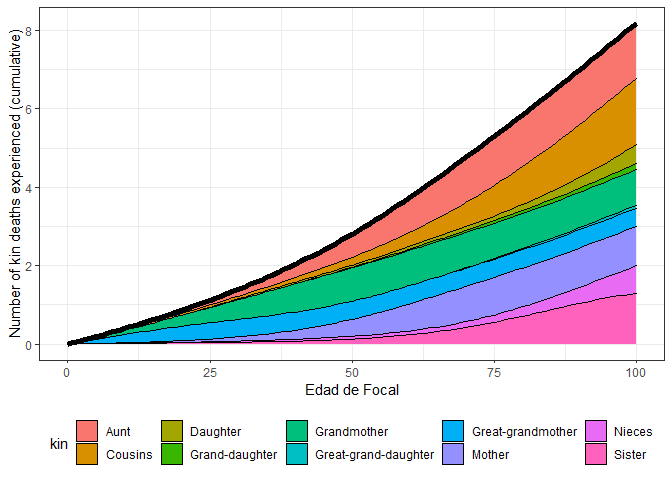
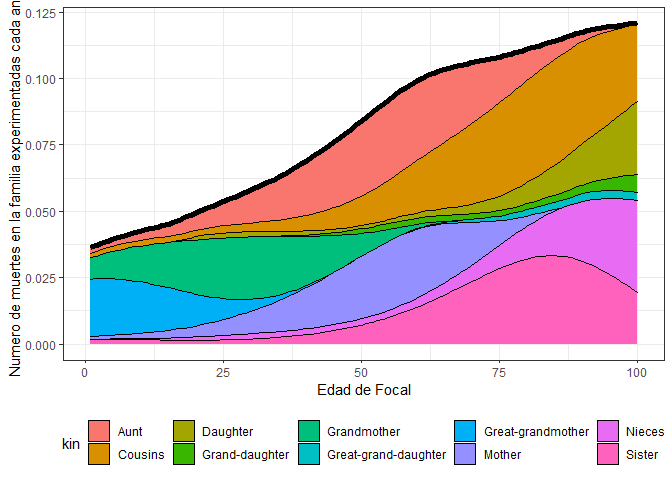
small update

diff --git a/README.md b/README.md
@@ -128,6 +128,61 @@ get_UNWPP_inputs <- function(countries, my_startyr, my_endyr, variant = "Median"
 }
 ```
 
+Otras funciones utiles que usaremos ma adelante:
+
+``` r
+# A function to apply GKP factors to a female-only population to approximate kin counts for a two-sex population by multiplying daughters by 2, granddaughters by 4, etc. 
+approx_two_sex <- function(df){
+  print("Note: approx_two_sex only keeps columns with data on kin counts!")
+      factors <- c("coa" = 8, "cya" = 8, "d" = 2, "gd" = 4, "ggd" = 8, "ggm" = 8, "gm" = 4, "m" = 2, "nos" = 4, "nys" = 4, "oa" = 4, "ya" = 4, "os" = 2, "ys" = 2)
+
+df <- as.data.frame(df)
+factors_vec <- factors[df$kin]
+df$count_living <- df$count_living*factors_vec
+df$count_dead <- df$count_dead*factors_vec
+drop <- c("mean_age", "sd_age", "count_cum_dead", "mean_age_lost")
+df[,!(names(df) %in% drop)]
+}
+
+# A small hack on the existing rename_kin function to make sure it keeps all columns
+rename_kin2 <- function (df, consolidate_column = "no") {
+  stopifnot(`Argument 'consolidate_column' should be 'no' or a valid column name` = consolidate_column %in% 
+    c("no", colnames(df)))
+  if (consolidate_column == "no") {
+    relatives <- c("Cousins from older aunt", "Cousins from younger aunt", 
+      "Daughter", "Grand-daughter", "Great-grand-daughter", 
+      "Great-grandmother", "Grandmother", "Mother", "Nieces from older sister", 
+      "Nieces from younger sister", "Aunt older than mother", 
+      "Aunt younger than mother", "Older sister", "Younger sister")
+    names(relatives) <- c("coa", "cya", "d", "gd", "ggd", 
+      "ggm", "gm", "m", "nos", "nys", "oa", "ya", "os", 
+      "ys")
+  }
+  else {
+    consolidate_vec <- c("c", "c", "d", "gd", "ggd", "ggm", 
+      "gm", "m", "n", "n", "a", "a", "s", "s")
+    names(consolidate_vec) <- c("coa", "cya", "d", "gd", 
+      "ggd", "ggm", "gm", "m", "nos", "nys", "oa", "ya", 
+      "os", "ys")
+    relatives <- c("Cousins", "Daughter", "Grand-daughter", 
+      "Great-grand-daughter", "Great-grandmother", "Grandmother", 
+      "Mother", "Nieces", "Aunt", "Sister")
+    names(relatives) <- unique(consolidate_vec)
+    df <- as.data.frame(df)
+    df$count <- df[, consolidate_column]
+    df <- df %>% dplyr::mutate(kin = consolidate_vec[kin]) %>% 
+      dplyr::group_by(age_focal, kin, Location) %>% 
+      dplyr::summarise(
+        count = sum(count)
+        , Location = unique(Location)
+        ) %>% 
+      dplyr::ungroup()
+  }
+  df$kin <- relatives[df$kin]
+  df
+}
+```
+
 Ahora, usemos esta función para descargar los datos que necesitamos para
 correr nuestro modelos de parentesco. Para este ejemplo, queremos datos
 de países latinoamericanos:
@@ -199,7 +254,7 @@ image.plot(
   )
 ```
 
-![](README_files/figure-gfm/unnamed-chunk-7-1.png)<!-- -->
+![](README_files/figure-gfm/unnamed-chunk-8-1.png)<!-- -->
 
 ### 2.2. `gt_asfr` matriz; tasas específicas de fecundidad (argumento *f* en DemoKin)
 
@@ -229,7 +284,7 @@ image.plot(
   )
 ```
 
-![](README_files/figure-gfm/unnamed-chunk-9-1.png)<!-- -->
+![](README_files/figure-gfm/unnamed-chunk-10-1.png)<!-- -->
 
 # 3\. La función `kin()`
 
@@ -392,7 +447,7 @@ gt_2015$kin_summary %>%
   plot_diagram(rounding = 2)
 ```
 
-![](README_files/figure-gfm/unnamed-chunk-16-1.png)<!-- -->
+![](README_files/figure-gfm/unnamed-chunk-17-1.png)<!-- -->
 
 ## 4.2. Parentela viva
 
@@ -412,7 +467,7 @@ gt_2015$kin_summary %>%
   facet_wrap(~kin)
 ```
 
-![](README_files/figure-gfm/unnamed-chunk-17-1.png)<!-- -->
+![](README_files/figure-gfm/unnamed-chunk-18-1.png)<!-- -->
 
 Podemos mostrar todo en una gráfica para visualizar el tamaño absoluto
 de las redes familiares de Focal:
@@ -436,7 +491,7 @@ gt_2015$kin_summary %>%
   theme(legend.position = "bottom")
 ```
 
-![](README_files/figure-gfm/unnamed-chunk-18-1.png)<!-- -->
+![](README_files/figure-gfm/unnamed-chunk-19-1.png)<!-- -->
 
 ## 4.3. Distribución etaria de la parentela con vida
 
@@ -457,7 +512,7 @@ gt_2015$kin_full %>%
   facet_wrap(~kin)
 ```
 
-![](README_files/figure-gfm/unnamed-chunk-19-1.png)<!-- -->
+![](README_files/figure-gfm/unnamed-chunk-20-1.png)<!-- -->
 
 ## 4.4. Parientes muertos
 
@@ -494,7 +549,7 @@ gt_2015$kin_summary %>%
     ## `summarise()` has grouped output by 'age_focal'. You can override using the
     ## `.groups` argument.
 
-![](README_files/figure-gfm/unnamed-chunk-20-1.png)<!-- -->
+![](README_files/figure-gfm/unnamed-chunk-21-1.png)<!-- -->
 
 La suma de estos valores indica el número acumulado de muertes de
 parientes experimentado por Focal cuando ella tiene 0,1,2,… años.
@@ -523,20 +578,23 @@ gt_2015$kin_summary %>%
     ## `summarise()` has grouped output by 'age_focal'. You can override using the
     ## `.groups` argument.
 
-![](README_files/figure-gfm/unnamed-chunk-21-1.png)<!-- -->
+![](README_files/figure-gfm/unnamed-chunk-22-1.png)<!-- -->
 
 Por ejemplo, cuando Focal alcanza los 15, 50 y 65 años de edad, habrá
 perdido un promedio de 0.6, 2.8, 4.2 parientes.
 
 # 5\. Ejemplo: dinámicas regionales
 
-Cómo varían las estructuras de parentesco a nivel latinoamericano?
+Cómo varían las estructuras de parentesco a nivel latinoamericano? Que
+tan comun es experimentar una muerte en la familia, y como se
+distribuyen estas perdidas familiares a lo largo de la vida?
 
 Primero descargamos los datos necesarios:
 
 ``` r
 # pick countries
-countries <- c("Argentina", "Cuba", "Chile", "Guatemala", "Mexico", "Brazil")
+# countries <- c("Argentina", "Colombia", "Chile", "Guatemala", "Mexico", "Brazil")
+countries <- c("Argentina", "Haiti", "Chile", "Guatemala")
 
 # Year range
 
@@ -551,14 +609,13 @@ data <- get_UNWPP_inputs(
 ```
 
     ## [1] "Getting API ready..."
-    ## [1] "Getting mortality data for Argentina, Cuba, Chile, Guatemala, Mexico, Brazil"
-    ## [1] "Getting fertility data for Argentina, Cuba, Chile, Guatemala, Mexico, Brazil"
+    ## [1] "Getting mortality data for Argentina, Haiti, Chile, Guatemala"
+    ## [1] "Getting fertility data for Argentina, Haiti, Chile, Guatemala"
 
 Corramos los modelos de parentesco para estos países, asumiendo una
 población estable femenina.
 
 ``` r
-# period data for decennial years
 period_kin <- 
   data %>%
   split(list(.$Location)) %>%
@@ -570,67 +627,12 @@ period_kin <-
 ```
 
     ## [1] "Argentina 2022"
-    ## [1] "Brazil 2022"
     ## [1] "Chile 2022"
-    ## [1] "Cuba 2022"
     ## [1] "Guatemala 2022"
-    ## [1] "Mexico 2022"
+    ## [1] "Haiti 2022"
 
 Primero, definimos una función que nos permite aproximar parientes sin
 importar el sexo (usando “factores GKP”):
-
-``` r
-# A function to apply GKP factors to a female-only population to approximate kin counts for a two-sex population by multiplying daughters by 2, granddaughters by 4, etc. 
-approx_two_sex <- function(df){
-  print("Note: approx_two_sex only keeps columns with data on kin counts!")
-      factors <- c("coa" = 8, "cya" = 8, "d" = 2, "gd" = 4, "ggd" = 8, "ggm" = 8, "gm" = 4, "m" = 2, "nos" = 4, "nys" = 4, "oa" = 4, "ya" = 4, "os" = 2, "ys" = 2)
-
-df <- as.data.frame(df)
-factors_vec <- factors[df$kin]
-df$count_living <- df$count_living*factors_vec
-df$count_dead <- df$count_dead*factors_vec
-drop <- c("mean_age", "sd_age", "count_cum_dead", "mean_age_lost")
-df[,!(names(df) %in% drop)]
-}
-
-# A small hack on the existing rename_kin function to make sure it keeps all columns
-rename_kin2 <- function (df, consolidate_column = "no") {
-  stopifnot(`Argument 'consolidate_column' should be 'no' or a valid column name` = consolidate_column %in% 
-    c("no", colnames(df)))
-  if (consolidate_column == "no") {
-    relatives <- c("Cousins from older aunt", "Cousins from younger aunt", 
-      "Daughter", "Grand-daughter", "Great-grand-daughter", 
-      "Great-grandmother", "Grandmother", "Mother", "Nieces from older sister", 
-      "Nieces from younger sister", "Aunt older than mother", 
-      "Aunt younger than mother", "Older sister", "Younger sister")
-    names(relatives) <- c("coa", "cya", "d", "gd", "ggd", 
-      "ggm", "gm", "m", "nos", "nys", "oa", "ya", "os", 
-      "ys")
-  }
-  else {
-    consolidate_vec <- c("c", "c", "d", "gd", "ggd", "ggm", 
-      "gm", "m", "n", "n", "a", "a", "s", "s")
-    names(consolidate_vec) <- c("coa", "cya", "d", "gd", 
-      "ggd", "ggm", "gm", "m", "nos", "nys", "oa", "ya", 
-      "os", "ys")
-    relatives <- c("Cousins", "Daughter", "Grand-daughter", 
-      "Great-grand-daughter", "Great-grandmother", "Grandmother", 
-      "Mother", "Nieces", "Aunt", "Sister")
-    names(relatives) <- unique(consolidate_vec)
-    df <- as.data.frame(df)
-    df$count <- df[, consolidate_column]
-    df <- df %>% dplyr::mutate(kin = consolidate_vec[kin]) %>% 
-      dplyr::group_by(age_focal, kin, Location) %>% 
-      dplyr::summarise(
-        count = sum(count)
-        , Location = unique(Location)
-        ) %>% 
-      dplyr::ungroup()
-  }
-  df$kin <- relatives[df$kin]
-  df
-}
-```
 
 Ahora podemos visualizar algunos patrones elementales de la estructura
 de parentesco en estos países, tales como la estructura familiar.
@@ -642,7 +644,6 @@ period_kin %>%
   rename_kin2(consolidate_column = "count") %>%
   ggplot(aes(x = age_focal, y = count)) +
   geom_area(aes(fill = kin), colour = "black") +
-  # geom_line(data = counts, size = 2) +
   labs(x = "Edad de Focal", y = "Número de parientes vivas") +
   facet_wrap(~Location) +
   theme_bw() +
@@ -658,6 +659,32 @@ period_kin %>%
 
 Cuantas muertes de familiares experimenta una persona en la edad exacta
 ‘x’ en distintos paises de LATAM?
+
+``` r
+exact_death <- 
+  period_kin %>% 
+  approx_two_sex() %>% 
+    rename_kin2(consolidate_column = "count_dead")
+```
+
+    ## [1] "Note: approx_two_sex only keeps columns with data on kin counts!"
+
+    ## `summarise()` has grouped output by 'age_focal', 'kin'. You can override using
+    ## the `.groups` argument.
+
+``` r
+exact_death %>% 
+  ggplot(aes(x = age_focal, y = count)) +
+  geom_area(aes(fill = kin), colour = "black") +
+  facet_wrap(~Location) +
+  labs(x = "Edad de Focal", y = "Perdidas familiares experimentadas en cada edad") +
+  theme_bw() +
+  theme(legend.position = "bottom")
+```
+
+![](README_files/figure-gfm/unnamed-chunk-26-1.png)<!-- -->
+
+El numero de muertes familiares acumuldas:
 
 ``` r
 cum_death <-
@@ -681,41 +708,59 @@ cum_death %>%
   ggplot(aes(x = age_focal, y = count)) +
   geom_area(aes(fill = kin), colour = "black") +
   facet_wrap(~Location) +
-  labs(x = "Edad de Focal", y = "Numero acumulado de muertes experimentadas") +
+  labs(x = "Edad de Focal", y = "Numero acumulado de muertes familiares") +
   theme_bw() +
   theme(legend.position = "bottom")
 ```
 
-![](README_files/figure-gfm/unnamed-chunk-26-1.png)<!-- -->
+![](README_files/figure-gfm/unnamed-chunk-27-1.png)<!-- -->
 
-Y todos los paises en una grafica:
+Finalmente, graficamos los resultados sin diferenciar el numero de
+parientes y comparamos los resultados para cada pais en una misma
+grafica:
 
 ``` r
-death_line <-
-  cum_death %>% 
+exact_line <-
+  exact_death %>% 
   filter(age_focal>0) %>%
   group_by(Location, age_focal) %>% 
   summarise(count = sum(count)) %>% 
-  ungroup() 
+  ungroup() %>% 
+  mutate(variable = "A cada edad")
 ```
 
     ## `summarise()` has grouped output by 'Location'. You can override using the
     ## `.groups` argument.
 
 ``` r
-death_line  %>% 
+cum_line <-
+  cum_death %>% 
+  filter(age_focal>0) %>%
+  group_by(Location, age_focal) %>% 
+  summarise(count = sum(count)) %>% 
+  ungroup() %>% 
+  mutate(variable = "Acumulado")
+```
+
+    ## `summarise()` has grouped output by 'Location'. You can override using the
+    ## `.groups` argument.
+
+``` r
+exact_line %>% 
+  bind_rows(cum_line) %>% 
   ggplot(aes(x = age_focal, y = count, colour = Location, shape = Location)) +
   geom_point(
     size = 4
     , data = . %>% filter(age_focal %in% seq(0,100,20))
     ) +
   geom_line(size = 1) +
-  labs(x = "Edad de Focal", y = "Numero acumulado de muertes experimentadas") +
+  labs(x = "Edad de Focal", y = "Numero de muertes familiares experimentadas") +
+  facet_wrap(~variable, scales = "free") +
   theme_bw() +
   theme(legend.position = "bottom")
 ```
 
-![](README_files/figure-gfm/unnamed-chunk-27-1.png)<!-- -->
+![](README_files/figure-gfm/unnamed-chunk-28-1.png)<!-- -->
 
 # 6\. Viñeta y extensiones
 
@@ -778,7 +823,7 @@ gt_2015$kin_summary %>%
 
     ## Warning: Removed 1 row(s) containing missing values (geom_path).
 
-![](README_files/figure-gfm/unnamed-chunk-30-1.png)<!-- -->
+![](README_files/figure-gfm/unnamed-chunk-31-1.png)<!-- -->
 
 **Instrucciones**
 
